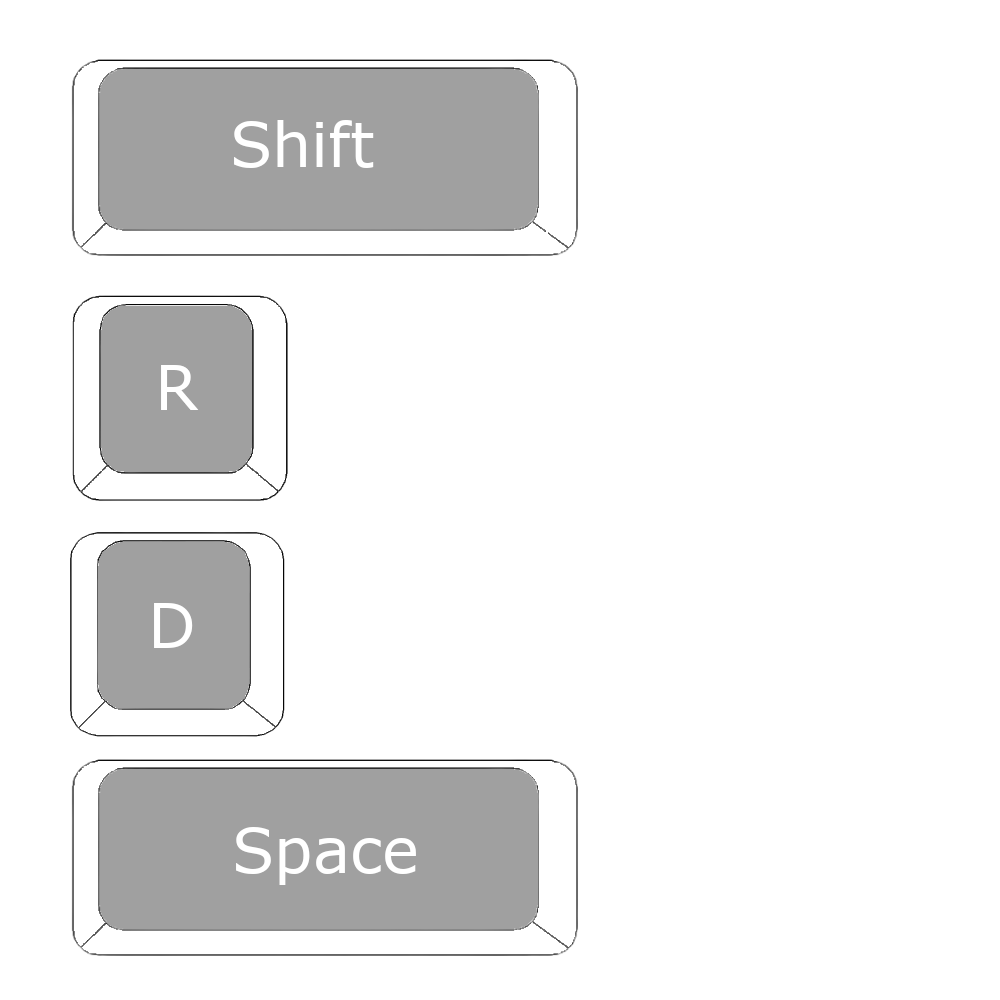
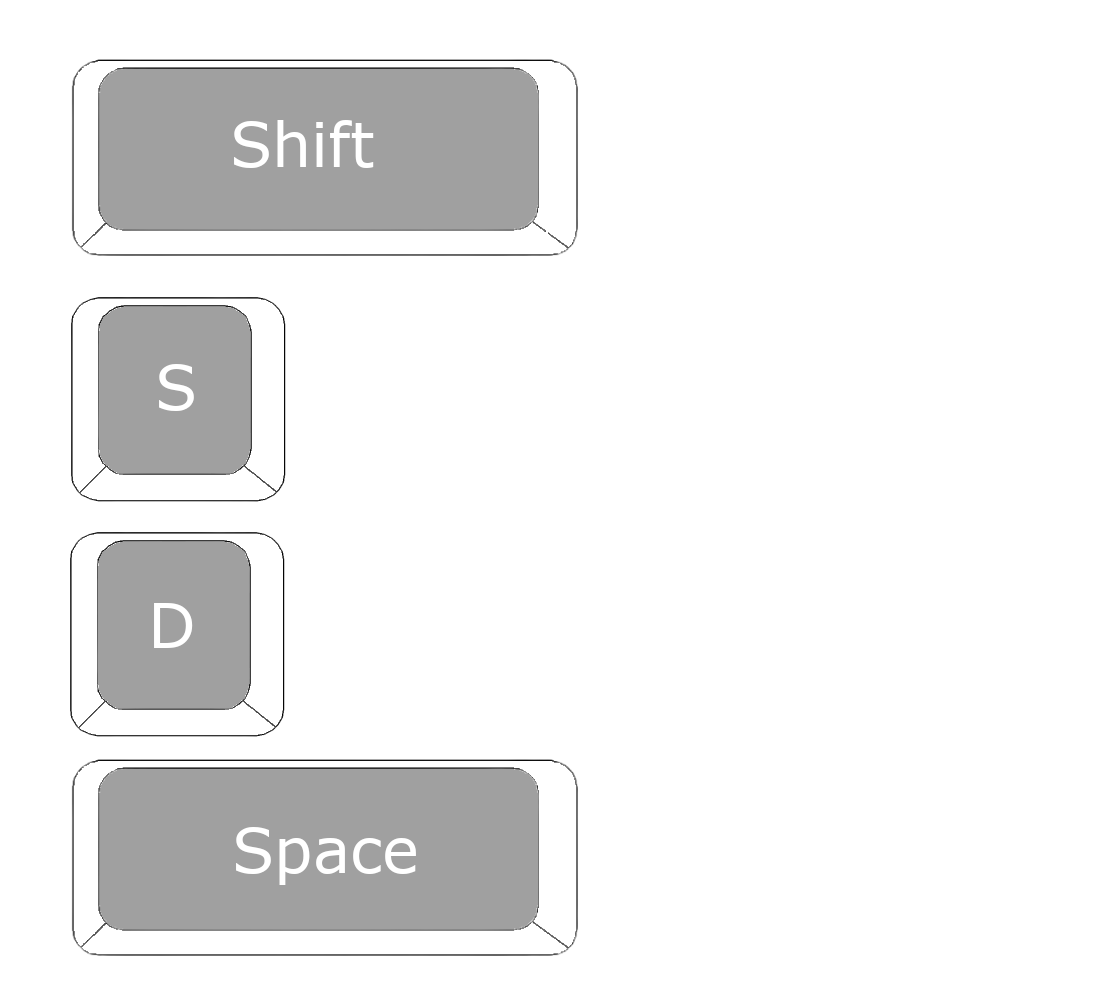
push

diff --git a/235/Project3/js/main.js b/235/Project3/js/main.js
@@ -84,6 +84,7 @@ app.loader.add("outdoorWinter", "sounds/outdoorWinter.mp3");
 /////////////////////////////ui
 app.loader.add("swordUI", "images/ui/Sword.png");
 app.loader.add("directionsUI", "images/ui/directions.png");
+app.loader.add("shieldUI", "images/ui/Shield.png");
 app.loader.onProgress.add(e => { console.log(`progress=${e.progress}`) });
 app.loader.onComplete.add(setup);
 app.loader.load();
@@ -104,6 +105,7 @@ window.onclick = startGame;
 function startGame(){
     startScene.visible = false;
     gameSceneUpdate.visible = true;
+    player.charges = 3;
     paused = false;
 }
 //function for making particles, from the demo
@@ -458,6 +460,9 @@ updateButtonsAndText();
 let sword3;
 let sword1;
 let sword2;
+let shield1;
+let shield2;
+let shield3;
 function createButtonsAndText(){
      // 1 - set up startscene
      let title = new PIXI.Text("Winter's Dawn");
@@ -486,15 +491,35 @@ function createButtonsAndText(){
 
      
      let directions = new PIXI.Sprite.from(app.loader.resources.directionsUI.url);
-     directions.x = sceneWidth / 2 - instructions.width / 2;
+     directions.x = sceneWidth / 2 - instructions.width * 5/8;
      directions.y = 200 + title.y;
      directions.scale.set(.25);
      startScene.addChild(directions);
 
 
-    
+         //shields
+    shield1=  PIXI.Sprite.from(app.loader.resources.shieldUI.url);
+    shield1.x = sceneWidth/20;
+    shield1.y = sceneHeight/10;
+    shield1.scale.set(1.5);
+    gameSceneUpdate.addChild(shield1);
 
-      sword1=  PIXI.Sprite.from(app.loader.resources.swordUI.url);
+    shield2 =  PIXI.Sprite.from(app.loader.resources.shieldUI.url);
+    shield2.x = shield1.x + sceneWidth/20;
+    shield2.y = sceneHeight/10;
+    shield2.scale.set(1.5);
+    gameSceneUpdate.addChild(shield2);
+
+    shield3 =  PIXI.Sprite.from(app.loader.resources.shieldUI.url);
+    shield3.x = shield2.x + sceneWidth/20;
+    shield3.y = sceneHeight/10;
+    shield3.scale.set(1.5);
+    gameSceneUpdate.addChild(shield3);
+ 
+ 
+    
+    //swords 
+     sword1=  PIXI.Sprite.from(app.loader.resources.swordUI.url);
      sword1.x = sceneWidth/20;
      sword1.y = sceneHeight/10;
      sword1.scale.set(2);
@@ -511,8 +536,9 @@ function createButtonsAndText(){
      sword3.y = sceneHeight/10;
      sword3.scale.set(2);
      gameSceneUpdate.addChild(sword3);
- 
- 
+
+
+        
     //gamescene setup
     /*let healthBar = new PIXI.Sprite.from("images/healthbarpng.png");
     healthBar.x = 1/20 * sceneWidth;
@@ -530,21 +556,32 @@ function createButtonsAndText(){
 
 //update the labels
 function updateButtonsAndText(){
+    //this is not as complicated as it seems
     sword1.visible = false;
     if(player.charges >= 1){
         sword1.visible = true;
         sword2.visible = false;
-       sword3.visible = false;
+        sword3.visible = false;
         if(player.charges >=2){
-
-           sword1.visible = true;
-          sword2.visible = true;
-            sword3.visible = false;
+            sword1.visible = true;
+            sword2.visible = true;
             if(player.charges >= 3){
-              sword1.visible = true;
-               sword2.visible = true;
                sword3.visible = true;
 
+            }
+        }
+    }
+    //update shield visibility
+    shield1.visible = false;
+    if(player.shieldCharge >= 2){
+        shield1.visible = true;
+        shield2.visible = false;
+        shield3.visible = false;
+        if(player.shieldCharge >=4){
+            shield1.visible = true;
+            shield2.visible = true;
+            if(player.shieldCharge >= 6){
+               shield3.visible = true;
             }
         }
     }
@@ -595,7 +632,7 @@ window.onkeydown = (e) => {
     if (e.keyCode == 32) {
         keys[keyboard.SPACE] = true;
     }
-    if (s == "r" || c == "S") {
+    if (c == "s" || c == "S") {
         keys[keyboard.S] = true;
     }
     if(e.keyCode == 16){

diff --git a/235/Project3/js/classes.js b/235/Project3/js/classes.js
@@ -33,7 +33,7 @@ class Player extends PIXI.AnimatedSprite{
     runTime = 0;
     prevSound = 0;
     rollDirection = 0;
-    shieldCharge = 5;
+    shieldCharge = 6;
 
     //checks if the player can attack before attackinh
     attackCharge(){
@@ -100,7 +100,7 @@ class Player extends PIXI.AnimatedSprite{
     //set the player to a shield state if their charge is high enough
     shield(){
 
-        if(this.shieldCharge > 3){
+        if(this.shieldCharge >= 2){
             this.state = "shield";
             this.textures = this.animations.shield;
         }
@@ -133,7 +133,7 @@ class Player extends PIXI.AnimatedSprite{
             this.chargeTime = 0;
         }
         if(this.state != "shield") this.shieldCharge += .25 * dt;
-        if(this.shieldCharge > 5) this.shieldCharge = 5;
+        if(this.shieldCharge > 6) this.shieldCharge = 6;
 
         //switch for state machine, lots of states
         switch(this.state){
@@ -241,9 +241,10 @@ class Player extends PIXI.AnimatedSprite{
             case "shield":
 
                 this.shieldCharge -= dt;
+                if(this.shieldCharge < 0) this.shieldCharge = 0;
 
                 this.loop = false;
-                if(!keys[keyboard.SHIFT]){
+                if(!keys[keyboard.SHIFT] || this.shieldCharge <= 0){
                     this.textures = this.animations.idle;
                     this.state = "idle"; 
                     this.loop = true;
@@ -481,6 +482,7 @@ class Player extends PIXI.AnimatedSprite{
             case "blocked":
                 if(player.state == "roll"){
                     this.dx -= player.dx;
+                    if(this.textures != this.animations.attack1) this.textures = this.animations.attack1, this.AttackSound();
                 }                                               
                 if(player.state != "roll" && player.state != "shield"){
                     this.run();

diff --git a/235/Project3/js/utilities.js b/235/Project3/js/utilities.js
@@ -3,6 +3,7 @@
 //https://astrobob.itch.io/animated-pixel-art-skeleton/download/eyJpZCI6OTE0NjQ4LCJleHBpcmVzIjoxNjY4NTUwOTkxfQ%3d%3d.cRV1InQdwksePg%2f9tG3ROq0H3bI%3d
 //https://andelrodis.itch.io/pixel-health-bar/download/eyJleHBpcmVzIjoxNjY4NjYxNjIxLCJpZCI6MTA3MzUxOH0%3d.%2bDsruHlleGAHwdgMMiMtSEJVFmQ%3d
 //https://garr19.itch.io/12-free-swords
+//https://sprpie.itch.io/pixelflans-darkfantasyshields/download/eyJpZCI6MTQ5MjA0NCwiZXhwaXJlcyI6MTY2ODcyNDcxNn0%3d.oeDuMwlcGora4zsMtP1QhN%2fOY9I%3d
 
 
 
